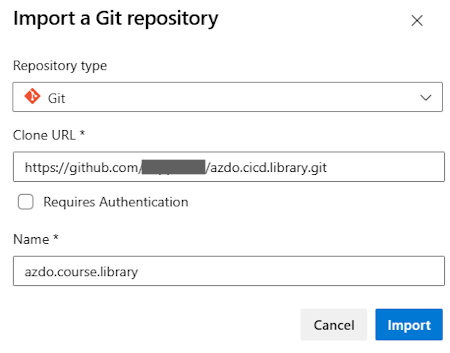
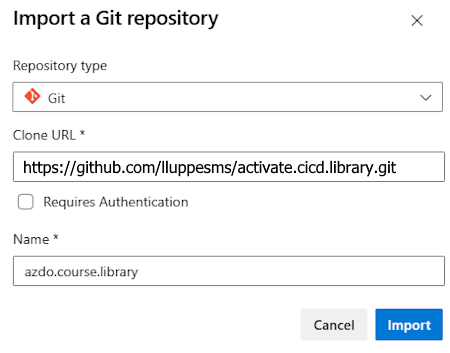
Initial commit

Changed region(s): [[0.0311, 0.4363, 0.9022, 0.4986]]

diff --git a/Labs/yml/07_TemplateRepository/readme.md b/Labs/yml/07_TemplateRepository/readme.md
@@ -13,6 +13,8 @@ Exercises:
 
 In this lab we will demonstrate how to create a central repository where you can have a library of shared YML templates that other projects can use. This is a common practice to ensure that all projects are using the same build and release definitions.  To do this, we will import an existing repository that contains some shared templates.
 
+> NOTE: This step may have been handled by your instructor already.  If so, you can skip this import and just use the existing template repository.  Check to see if the `azdo.course.library` repository already exists in your project.  If it does, you can skip to the next exercise.
+
 1. Navigate to **Repos** -> **Files** and select **Import a repository**
 
     ![Import Repository](img/010_import_repo.png)
@@ -24,14 +26,14 @@ In this lab we will demonstrate how to create a central repository where you can
     **Settings:**
 
     * Repository type: Git
-    * Clone URL: `https://github.com/lluppesms/azdo.cicd.library.git`
+    * Clone URL: `https://github.com/lluppesms/activate.cicd.library.git`
     * Name: azdo.course.library
 
 1. And click on "Import".
 
     ![Import Repository](img/030_import_repository.png)
 
-This will now import the sample template repository from GitHub into your Azure DevOps Repository.  We will use some of those templates in the following exercises.
+This will import the sample template repository from GitHub into your Azure DevOps Repository.  We will use some of those templates in the following exercises.
 
 <!-- ------------------------------------------------------------------------------------------ -->
 ---
@@ -90,7 +92,7 @@ When you look at the pipeline executing you should see multiple repositories tha
 
 ![Pipeline run](img/160_pipeline_run.png)
 
-Our new pipeline looks and works exactly the same as the pipelines with templates that we did in previous labs, but now we are referencing templates in a library that we do not have to maintain, or that are maintained by a central team.
+Our new pipeline looks and works exactly the same as the pipelines with templates that we did in previous labs, but now we are referencing templates in a library that we do not have to maintain, or that is maintained by a central team.
 
 This is a great way to create consistent repeatable maintainable pipelines that can be used across your organization!
 

diff --git a/Labs/yml/readme.md b/Labs/yml/readme.md
@@ -2,11 +2,11 @@
 
 ## Getting Started
 
-You will need an Azure DevOps Organization and Project in order to complete this workshop. If you don't already have an Azure DevOps Organization, you can create one for free at [dev.azure.com](http://dev.azure.com). You will also need an Azure Subscription to deploy resources to Azure.  For more detailed information on setting an organization and project, see the [Create an Azure DevOps Project](/Labs/lab0/Create-Azdo-Project.md) document for more information.
+You will need an Azure DevOps Organization and Project in order to complete this workshop. If you don't already have an Azure DevOps Organization, you can create one for free at [dev.azure.com](http://dev.azure.com). You will also need an Azure Subscription to deploy resources to Azure.  For more detailed information on setting an organization and project, see the [Create an Azure DevOps Project](../setup/Create-Azdo-Project.md) document for more information.
 
-Once we proceed to the Bicep part of the course, you will also want an editor like VS Code to edit the YML and Bicep files, and a few key extensions to make things better. See the [Visual Studio Code Setup](/Labs/lab0/Visual-Studio-Code.md) document for more information.
+Once we proceed to the Bicep part of the course, you will also want an editor like VS Code to edit the YML and Bicep files, and a few key extensions to make things better. See the [Visual Studio Code Setup](../setup//Visual-Studio-Code.md) document for more information.
 
-If you need a Build Agent for this class, you can refer to the [Creating a Custom Build Agent](/Labs/Build-Agents/desktop-runner/readme.md) document to assist you in creating it. You can use the default of the Microsoft Hosted Agents, but if you have a large class it may be better to each have your own custom custom agent.
+If you need a Build Agent for this class, you can refer to the [Creating a Custom Build Agent](../build-agents/desktop-runner/readme.md) document to assist you in creating it. You can use the default of the Microsoft Hosted Agents, but if you have a large class it may be better to each have your own custom custom agent.
 
 ## YML Labs
 

diff --git a/Labs/setup/Clone-Repo.md b/Labs/setup/Clone-Repo.md
@@ -2,9 +2,9 @@
 
 In Lab 1 we are starting with an introduction into Pipelines-as-Code with Azure DevOps by building a first, basic Pipeline using the Azure DevOps Portal.
 
-> If you have not created an Organization and a Project in Azure DevOps, please start with the preparation tasks in the [0.1 Create an Azure DevOps Project](./Create-Azdo-Project.md) guide.
+> If you have not created an Organization and a Project in Azure DevOps, please start with the preparation tasks in the [Create an Azure DevOps Project](../../setup/Create-Azdo-Project.md) guide.
 
-> If you need a custom Build Agent and have not created a Build Agent yet, you can install a Build Agent on your VM or Local Machine.  Please follow the instructions in the [0.2 Create a Custom Build Agent](/Labs/Build-Agents/desktop-runner/readme.md) guide.
+> If you need a custom Build Agent and have not created a Build Agent yet, you can install a Build Agent on your VM or Local Machine.  Please follow the instructions in the [Create a Custom Build Agent](../../build-agents/desktop-runner/readme.md) guide.
 
 Exercises:
 

diff --git a/Labs/setup/Create-Azdo-Project.md b/Labs/setup/Create-Azdo-Project.md
@@ -36,4 +36,4 @@ We are now done with the preparation for our lab.
 <!-- ------------------------------------------------------------------------------------------ -->
 ---
 
-[Begin First Lab](/Labs/lab1/lab1.md) | [Create a Custom Build Agent](/Labs/Build-Agents/desktop-runner/readme.md) | [VS Code Install](/Labs/lab0/Visual-Studio-Code.md) | [Table of Contents](./readme.md)
+[Begin First Lab](../yml/01_Starter/readme.md) | [Create a Custom Build Agent](../build-agents/desktop-runner/readme.md) | [VS Code Install](../setup/Visual-Studio-Code.md) | [Table of Contents](../../readme.md)

diff --git a/Labs/setup/readme.md b/Labs/setup/readme.md
@@ -4,8 +4,8 @@ In Lab 0 we are will start by making sure you have the proper prerequisites to r
 
 Exercises:
 
-* [0.1 Create an Azure DevOps Project](/Labs/lab0/Create-Azdo-Project.md)
+* [0.1 Create an Azure DevOps Project](../setup/Create-Azdo-Project.md)
 
-* [0.2 Create a Custom Build Agent](/Labs/Build-Agents/desktop-runner/readme.md)
+* [0.2 Create a Custom Build Agent](../build-agents/desktop-runner/readme.md)
 
-* [0.3 Set up Visual Studio Code (Optional)](/Labs/lab0/Visual-Studio-Code.md)
+* [0.3 Set up Visual Studio Code (Optional)](../setup/Visual-Studio-Code.md)

diff --git a/Labs/build-agents/desktop-runner/readme.md b/Labs/build-agents/desktop-runner/readme.md
@@ -104,4 +104,4 @@ That's it!  You now have a self-hosted Azure DevOps Build Runner running on your
 
 ---
 
-[Begin First Lab](/Labs/lab1/lab1.md) | [VS Code Install](/Labs/lab0/Visual-Studio-Code.md) | [Table of Contents](./readme.md)
+[Begin First Lab](../../yml/01_Starter/readme.md) | [VS Code Install](../../setup/Visual-Studio-Code.md) | [Table of Contents](../../../readme.md)
